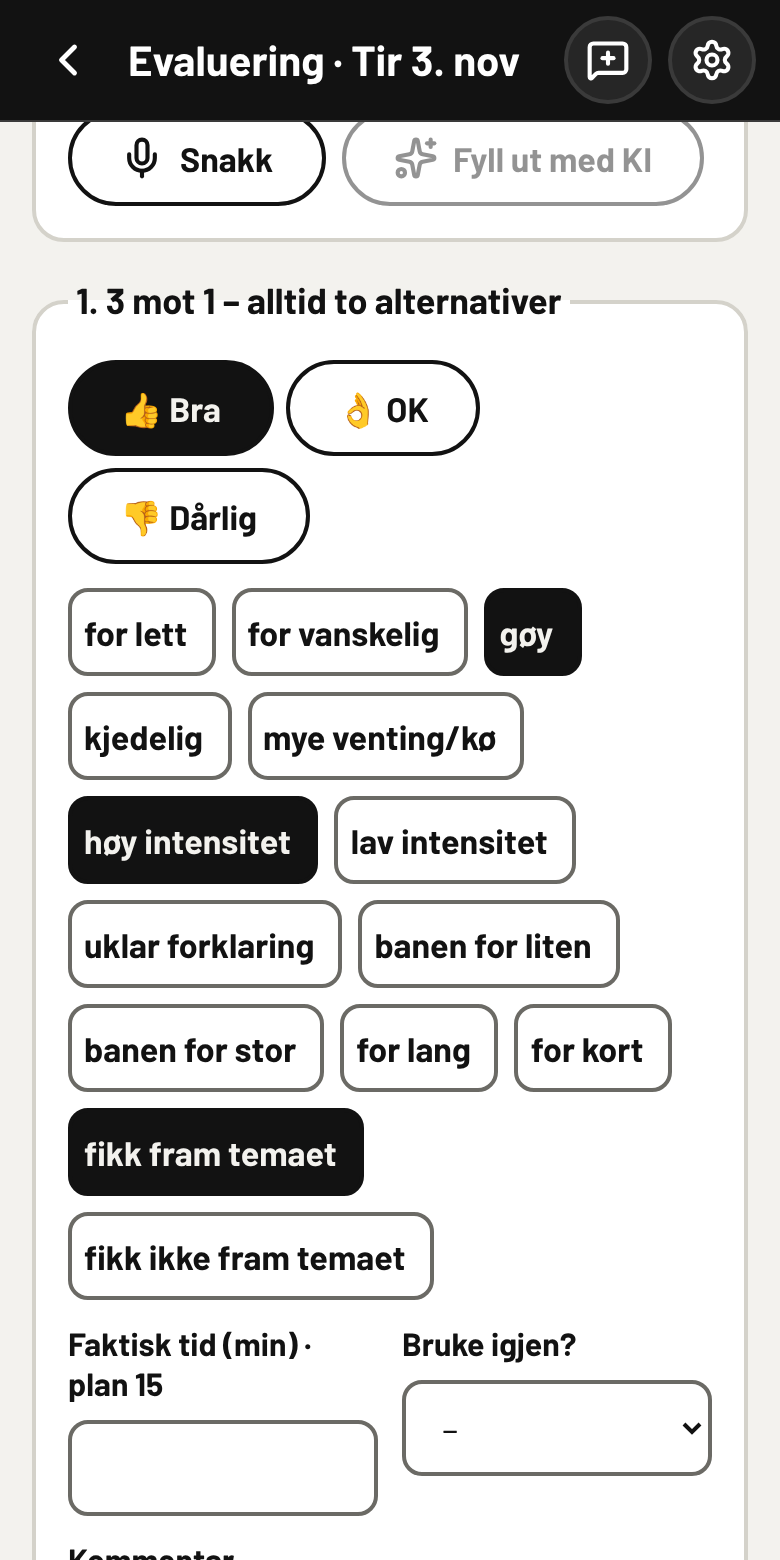
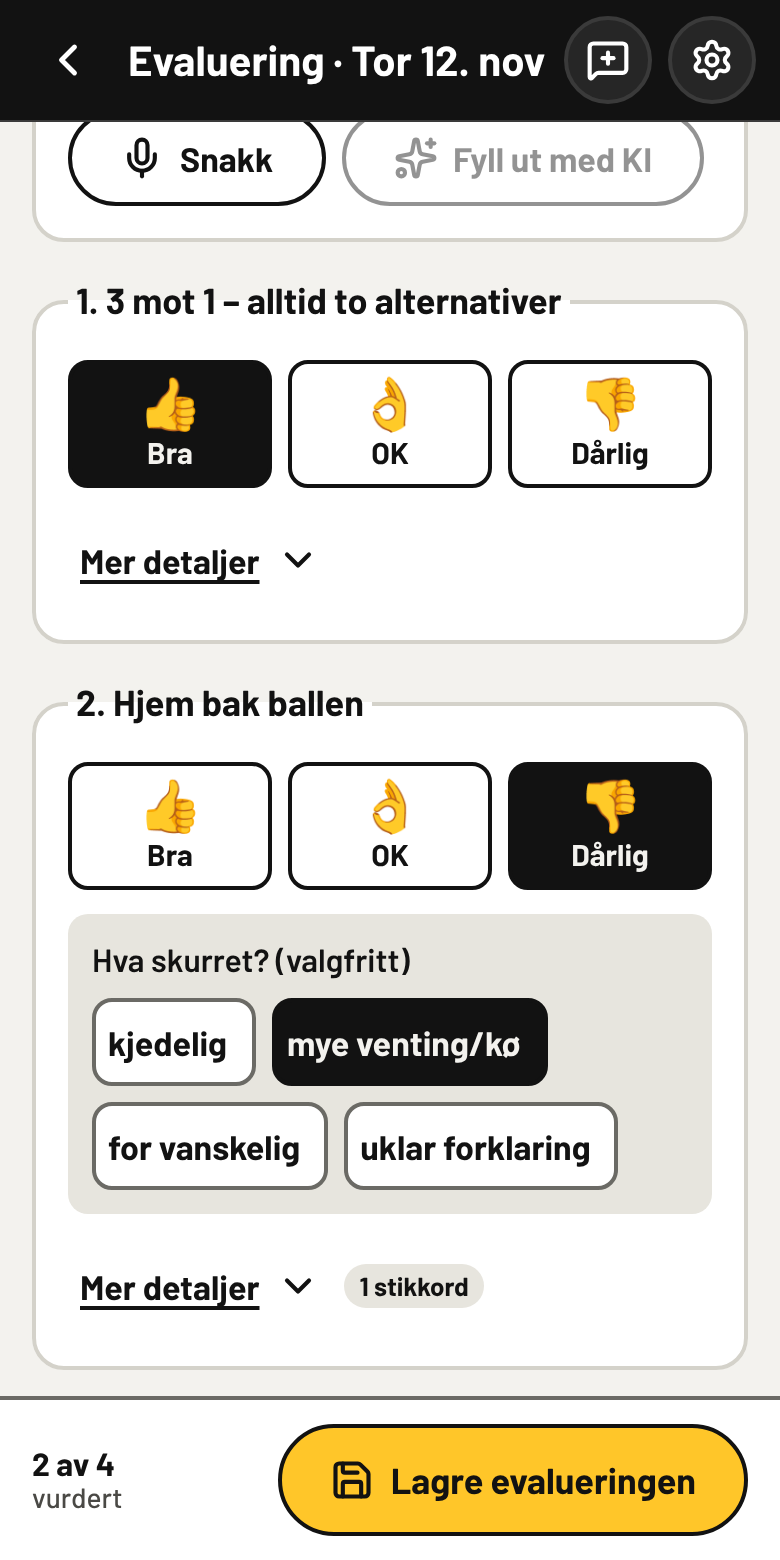
Rask evaluering: ett trykk per øvelse, «Mer detaljer» valgfritt, 👍 teller som «Bruke igjen: Ja» (1.38.0)
Claude-Session: https://claude.ai/code/session_017ZNNficdiEcxkxfot4eDbY

diff --git a/components/plans/FeedbackForm.tsx b/components/plans/FeedbackForm.tsx
@@ -1,13 +1,13 @@
 "use client";
 
-import { Save } from "lucide-react";
+import { ChevronDown, ChevronUp, Save } from "lucide-react";
 import { useRouter } from "next/navigation";
 import { useState, useTransition } from "react";
 import { bankFeedbackAction, feedbackAction } from "@/app/actions/plans";
 import { FeedbackDictation } from "@/components/plans/FeedbackDictation";
 import { Icon } from "@/components/ui/icon";
 import { useToast } from "@/components/ui/toast";
-import type { FeedbackFill } from "@/lib/plans/feedback";
+import { type FeedbackFill, QUICK_TAGS } from "@/lib/plans/feedback";
 
 export interface FeedbackDraft {
   exercise_no: number | null;
@@ -55,6 +55,9 @@ export function FeedbackForm(p: {
   const [rows, setRows] = useState(p.rows);
   const [error, setError] = useState<string | null>(null);
   const upd = (i: number, ch: Partial<FeedbackDraft>) => setRows((r) => r.map((x, j) => (j === i ? { ...x, ...ch } : x)));
+  // Details are optional: open from the start only when there is one row, or when something besides the rating is filled in.
+  const hasDetails = (x: FeedbackDraft) => Boolean(x.actual_minutes || x.actual_players || x.body || x.use_again || x.tags.some((t) => !QUICK_TAGS.includes(t)));
+  const [open, setOpen] = useState<boolean[]>(() => p.rows.map((x) => p.rows.length === 1 || hasDetails(x)));
   const [filled, setFilled] = useState(0);
   // KI's fields go over what is there; keywords are added. From the bank, KI's exercise 1 is the only row.
   const fill = (fills: FeedbackFill[]) => {
@@ -74,6 +77,8 @@ export function FeedbackForm(p: {
         };
       }),
     );
+    // Show what KI filled in.
+    setOpen((o) => o.map((v, j) => v || fills.some((f) => (plan ? f.exercise_no === rows[j]?.exercise_no : f.exercise_no === 1))));
     setFilled((n) => n + 1);
   };
 
@@ -92,6 +97,10 @@ export function FeedbackForm(p: {
       else router.refresh();
     });
 
+  const [said, setSaid] = useState("");
+  const rated = rows.filter((x) => x.rating !== null).length;
+  const quickTags = QUICK_TAGS.filter((k) => k in p.tags);
+
   return (
     <form
       className="nm-form"
@@ -104,7 +113,7 @@ export function FeedbackForm(p: {
     >
       <p style={{ margin: 0 }}>
         {"planId" in p.target
-          ? "Evalueringene hjelper laget og KI å lage bedre økter."
+          ? "Ett trykk per øvelse holder. Vil du si mer, trykk «Mer detaljer». Evalueringene hjelper laget og KI å lage bedre økter."
           : "Vurder øvelsen slik den har fungert for laget. Den teller sammen med evalueringene etter trening. Tøm feltene og lagre for å fjerne din evaluering."}{" "}
         Skriv uten navn på spillere.
       </p>
@@ -116,73 +125,117 @@ export function FeedbackForm(p: {
       ) : null}
       {rows.map((x, i) => {
         const session = "planId" in p.target && x.exercise_no === null;
+        const isOpen = open[i];
+        const tags = session ? (p.sessionTags ?? {}) : p.tags;
+        const chip = (k: string, label: string) => (
+          <button
+            key={k}
+            type="button"
+            className="nm-chip"
+            style={{ cursor: "pointer" }}
+            aria-pressed={x.tags.includes(k)}
+            onClick={() => upd(i, { tags: x.tags.includes(k) ? x.tags.filter((t) => t !== k) : [...x.tags, k] })}
+          >
+            {label}
+          </button>
+        );
         return (
           <fieldset key={i} className="nm-card nm-proposal" style={{ margin: 0 }}>
             <legend style={{ fontWeight: 700, fontSize: "var(--fs-body-lg)", padding: "0 var(--space-1)" }}>{x.title}</legend>
-            <div className="nm-rate" role="group" aria-label="Vurdering">
+            <div className="nm-rate nm-rate--big" role="group" aria-label="Vurdering">
               {Object.entries(p.ratings)
                 .sort((a, b) => Number(b[0]) - Number(a[0]))
-                .map(([k, label]) => (
-                  <button key={k} type="button" className="nm-btn nm-btn--secondary" aria-pressed={x.rating === Number(k)} onClick={() => upd(i, { rating: x.rating === Number(k) ? null : Number(k) })}>
-                    {label}
-                  </button>
-                ))}
+                .map(([k, label]) => {
+                  const [emoji, ...word] = label.split(" ");
+                  return (
+                    <button
+                      key={k}
+                      type="button"
+                      className="nm-btn nm-btn--secondary"
+                      aria-pressed={x.rating === Number(k)}
+                      onClick={() => {
+                        const r = x.rating === Number(k) ? null : Number(k);
+                        upd(i, { rating: r });
+                        setSaid(`${x.title}: ${r === null ? "ingen vurdering" : word.join(" ")}`);
+                      }}
+                    >
+                      <span className="nm-rate__emoji">{emoji}</span> {word.join(" ")}
+                    </button>
+                  );
+                })}
             </div>
-            {Object.keys(session ? (p.sessionTags ?? {}) : p.tags).length ? (
-              <div className="nm-row" style={{ gap: "var(--space-2)" }} role="group" aria-label={session ? "Stikkord for hele økta" : "Stikkord"}>
-                {Object.entries(session ? (p.sessionTags ?? {}) : p.tags).map(([k, label]) => (
-                  <button
-                    key={k}
-                    type="button"
-                    className="nm-chip"
-                    style={{ cursor: "pointer" }}
-                    aria-pressed={x.tags.includes(k)}
-                    onClick={() => upd(i, { tags: x.tags.includes(k) ? x.tags.filter((t) => t !== k) : [...x.tags, k] })}
-                  >
-                    {label}
-                  </button>
-                ))}
+            {!session && !isOpen && x.rating === 1 && quickTags.length ? (
+              <div className="nm-note" style={{ flexDirection: "column", gap: "var(--space-2)" }}>
+                <span style={{ fontWeight: 600 }}>Hva skurret? (valgfritt)</span>
+                <div className="nm-row" style={{ gap: "var(--space-2)" }} role="group" aria-label="Hva skurret?">
+                  {quickTags.map((k) => chip(k, p.tags[k]))}
+                </div>
               </div>
             ) : null}
-            {!session ? (
+            {p.rows.length > 1 ? (
+              <div>
+                <button type="button" className="nm-btn nm-btn--ghost nm-more" aria-expanded={isOpen} onClick={() => setOpen((o) => o.map((v, j) => (j === i ? !v : v)))}>
+                  <span className="nm-more__label">Mer detaljer</span>
+                  <Icon icon={isOpen ? ChevronUp : ChevronDown} />
+                  {!isOpen && x.tags.length ? <span className="nm-more__count">{x.tags.length === 1 ? "1 stikkord" : `${x.tags.length} stikkord`}</span> : null}
+                </button>
+              </div>
+            ) : null}
+            {isOpen ? (
               <>
-                <div className="nm-form-row">
+                {Object.keys(tags).length ? (
+                  <div className="nm-row" style={{ gap: "var(--space-2)" }} role="group" aria-label={session ? "Stikkord for hele økta" : "Stikkord"}>
+                    {Object.entries(tags).map(([k, label]) => chip(k, label))}
+                  </div>
+                ) : null}
+                {!session ? (
+                  <div className="nm-form-row">
+                    <label className="nm-field">
+                      <span className="nm-field__label">Faktisk tid (min){x.planned ? ` · plan ${x.planned}` : ""}</span>
+                      <input className="nm-input" type="number" inputMode="numeric" min={0} max={240} value={x.actual_minutes} onChange={(e) => upd(i, { actual_minutes: e.target.value })} />
+                    </label>
+                    <label className="nm-field">
+                      <span className="nm-field__label">Bruke igjen?</span>
+                      <select className="nm-input" value={x.use_again} onChange={(e) => upd(i, { use_again: e.target.value })}>
+                        <option value="">{x.rating === 3 ? "Ja (fordi 👍)" : "–"}</option>
+                        {Object.entries(p.useAgain).map(([k, label]) => (
+                          <option key={k} value={k}>
+                            {label}
+                          </option>
+                        ))}
+                      </select>
+                    </label>
+                  </div>
+                ) : (
                   <label className="nm-field">
-                    <span className="nm-field__label">Faktisk tid (min){x.planned ? ` · plan ${x.planned}` : ""}</span>
-                    <input className="nm-input" type="number" inputMode="numeric" min={0} max={240} value={x.actual_minutes} onChange={(e) => upd(i, { actual_minutes: e.target.value })} />
+                    <span className="nm-field__label">Antall spillere som kom{"registered" in p.target && p.target.registered !== null ? ` (${p.target.registered} påmeldt)` : ""}</span>
+                    <input className="nm-input" type="number" inputMode="numeric" min={0} max={200} value={x.actual_players} onChange={(e) => upd(i, { actual_players: e.target.value })} />
                   </label>
-                  <label className="nm-field">
-                    <span className="nm-field__label">Bruke igjen?</span>
-                    <select className="nm-input" value={x.use_again} onChange={(e) => upd(i, { use_again: e.target.value })}>
-                      <option value="">–</option>
-                      {Object.entries(p.useAgain).map(([k, label]) => (
-                        <option key={k} value={k}>
-                          {label}
-                        </option>
-                      ))}
-                    </select>
-                  </label>
-                </div>
+                )}
+                <label className="nm-field">
+                  <span className="nm-field__label">Kommentar</span>
+                  <textarea className="nm-input" style={{ minHeight: 64 }} maxLength={300} value={x.body} onChange={(e) => upd(i, { body: e.target.value })} />
+                </label>
               </>
-            ) : (
-              <label className="nm-field">
-                <span className="nm-field__label">Antall spillere som kom{"registered" in p.target && p.target.registered !== null ? ` (${p.target.registered} påmeldt)` : ""}</span>
-                <input className="nm-input" type="number" inputMode="numeric" min={0} max={200} value={x.actual_players} onChange={(e) => upd(i, { actual_players: e.target.value })} />
-              </label>
-            )}
-            <label className="nm-field">
-              <span className="nm-field__label">Kommentar</span>
-              <textarea className="nm-input" style={{ minHeight: 64 }} maxLength={300} value={x.body} onChange={(e) => upd(i, { body: e.target.value })} />
-            </label>
+            ) : null}
           </fieldset>
         );
       })}
+      <div aria-live="polite" className="nm-sr-only">
+        {said}
+      </div>
       {error ? (
         <div className="nm-alert" role="alert">
           {error}
         </div>
       ) : null}
-      <div>
+      <div className="nm-savebar">
+        {rows.length > 1 ? (
+          <span className="nm-savebar__count">
+            {rated} av {rows.length}
+            <small>vurdert</small>
+          </span>
+        ) : null}
         <button type="submit" className="nm-btn nm-btn--primary nm-btn--lg" disabled={pending}>
           <Icon icon={Save} />
           Lagre evalueringen

diff --git a/public/bruksanvisning/index.html b/public/bruksanvisning/index.html
@@ -137,7 +137,7 @@
     <img src="bilder/03-lag.png" alt="Lagtavla">
     <img src="bilder/08-evaluering.png" alt="Evaluering av en øvelse">
   </div>
-  <p class="meta"><b>lagorganisering.vercel.app</b> · Gjelder appversjon <b id="VERSJON">1.37.0</b><br>
+  <p class="meta"><b>lagorganisering.vercel.app</b> · Gjelder appversjon <b id="VERSJON">1.38.0</b><br>
   Appen er under utvikling, og bruksanvisningen oppdateres sammen med den. Den nyeste ligger alltid i appen under Innstillinger → Bruksanvisning. Skjermbildene er fra demoversjonen, med oppdiktede navn.</p>
 </div>
 
@@ -253,20 +253,27 @@
   <h2><span class="num">4</span>Etter treningen: evaluer økta</h2>
   <div class="box key">
     <h3>Det viktigste i hele appen</h3>
-    <p>Øvelsesbanken og KI lærer <b>bare</b> av evalueringene deres. Uten evalueringer vet ikke appen hvilke øvelser som fungerer for vår aldersgruppe, og KI fortsetter å foreslå de samme øvelsene – også de som ikke fungerte. Det tar to–tre minutter, og det er de minuttene som gjør neste opplegg bedre.</p>
+    <p>Øvelsesbanken og KI lærer <b>bare</b> av evalueringene deres. Uten evalueringer vet ikke appen hvilke øvelser som fungerer for vår aldersgruppe, og KI fortsetter å foreslå de samme øvelsene – også de som ikke fungerte. Ett trykk per øvelse tar under ett minutt, og det er det minuttet som gjør neste opplegg bedre.</p>
   </div>
 
-  <figure><img src="bilder/08-evaluering.png" alt="Evaluering av en øvelse"><figcaption>Evaluering av én øvelse: tommel, stikkord, faktisk tid og «Bruke igjen?».</figcaption></figure>
+  <figure><img src="bilder/08-evaluering.png" alt="Evaluering av en øvelse"><figcaption>Rask evaluering: ett trykk per øvelse. Ved 👎 kan du si hva som skurret.</figcaption></figure>
   <h3>Slik evaluerer du</h3>
-  <p>Trykk <span class="ui">Evaluer</span> i påminnelsen øverst på forsiden, eller <span class="ui">Evaluer økta</span> på arrangementet. For <b>hver øvelse</b>:</p>
+  <p>Trykk <span class="ui">Evaluer</span> i påminnelsen øverst på forsiden, eller <span class="ui">Evaluer økta</span> på arrangementet. Har du dårlig tid, holder det med <b>ett trykk per øvelse</b>:</p>
   <ol class="steps">
-    <li><b>👍 Bra, 👌 OK eller 👎 Dårlig.</b></li>
+    <li><b>👍 Bra, 👌 OK eller 👎 Dårlig</b> for hver øvelse og for <b>Hele økta</b>.</li>
+    <li>Ved <b>👎</b>: trykk gjerne hva som skurret – <span class="tag">kjedelig</span> <span class="tag">mye venting/kø</span> <span class="tag">for vanskelig</span> <span class="tag">uklar forklaring</span>. Det er valgfritt.</li>
+    <li>Trykk <span class="ui">Lagre evalueringen</span> nederst. Den viser hvor mange du har vurdert, og du kan lagre det du rekker.</li>
+  </ol>
+  <p>👍 teller som <b>«Bruke igjen: Ja»</b>, hvis du ikke velger noe annet.</p>
+  <h3>Mer detaljer (valgfritt)</h3>
+  <p>Har du mer å si, trykker du <span class="ui">Mer detaljer</span> under øvelsen:</p>
+  <ol class="steps">
     <li><b>Stikkord</b> – trykk alle som passer: <span class="tag">for lett</span> <span class="tag">mye venting/kø</span> <span class="tag">uklar forklaring</span> <span class="tag">banen for liten</span> <span class="tag">gøy</span> <span class="tag">fikk fram temaet</span> …</li>
     <li><b>Faktisk tid</b> i minutter, hvis den var annerledes enn planen.</li>
     <li><b>Bruke igjen?</b> Ja, Med endringer eller Nei.</li>
     <li><b>Kommentar</b>: hva bør endres? Konkret og uten navn.</li>
   </ol>
-  <p>Til slutt <b>Hele økta</b>: tommel, stikkord som <span class="tag">god progresjon</span> <span class="tag">mye tid til organisering</span> <span class="tag">for få trenere</span>, og <b>hvor mange spillere som kom</b>. Trykk <span class="ui">Lagre evalueringen</span>.</p>
+  <p>Under <span class="ui">Mer detaljer</span> for <b>Hele økta</b> finner du stikkord som <span class="tag">god progresjon</span> <span class="tag">mye tid til organisering</span> <span class="tag">for få trenere</span>, og <b>hvor mange spillere som kom</b>. Jo mer dere skriver, jo mer lærer appen, men en rask evaluering er mye bedre enn ingen.</p>
   <div class="clear"></div>
 
   <div class="box tip">
@@ -295,7 +302,7 @@
 
   <table>
     <tr><th style="width: 38%">Det dere gjør</th><th>Det skjer i banken</th></tr>
-    <tr><td>👍 + «Bruke igjen: Ja» på en ny øvelse</td><td>Øvelsen går fra <b>kandidat</b> til <b>aktiv</b>. Uten det blir den liggende som kandidat.</td></tr>
+    <tr><td>👍 på en ny øvelse (uten at «Bruke igjen?» er satt til Med endringer eller Nei)</td><td>Øvelsen går fra <b>kandidat</b> til <b>aktiv</b>. Uten det blir den liggende som kandidat.</td></tr>
     <tr><td>Samme stikkord fra flere trenere (f.eks. «mye venting/kø»)</td><td>KI lager et <b>forslag til en bedre versjon</b> av øvelsen, som venter i Forbedringer.</td></tr>
     <tr><td>👎 og «Bruke igjen: Nei» over tid</td><td>KI slutter å foreslå øvelsen for denne aldersgruppa, og den kan bli foreslått arkivert.</td></tr>
     <tr><td>En øvelse er bra for én alder og dårlig for en annen</td><td>Appen foreslår en <b>variant</b> tilpasset aldersgruppa.</td></tr>
@@ -335,7 +342,7 @@
   <p>Under <span class="ui">Trening → Øvelser</span> ligger alle øvelsene, sortert etter kategori. Hver øvelse har en status:</p>
   <ul>
     <li><b>Aktiv</b> – brukes av KI og i opplegg.</li>
-    <li><b>Kandidat</b> – ny øvelse som venter på en 👍 og «Bruke igjen: Ja».</li>
+    <li><b>Kandidat</b> – ny øvelse som venter på en 👍.</li>
     <li><b>Arkivert</b> – brukes ikke lenger.</li>
   </ul>
   <h3>Se, evaluere og justere</h3>

diff --git a/app/globals.css b/app/globals.css
@@ -404,6 +404,17 @@ select.nm-input { appearance: auto; }
 .nm-pick > div { flex: 1; min-width: 0; }
 .nm-pick--new { outline: var(--border-2) solid var(--border-focus); outline-offset: calc(var(--border-2) * -1); border-radius: var(--radius-sm); scroll-margin-top: calc(var(--space-7) * 2); }
 .nm-rate { display: flex; gap: 6px; flex-wrap: wrap; }
+/* Quick evaluation: three big buttons side by side, emoji over the word */
+.nm-rate--big { display: grid; grid-template-columns: repeat(3, 1fr); gap: var(--space-2); }
+.nm-rate--big > .nm-btn { flex-direction: column; gap: 2px; min-height: var(--row-min); padding: 0 var(--space-1); border-radius: var(--radius-md); font-size: 15px; }
+.nm-rate__emoji { font-size: 26px; line-height: 1; }
+.nm-more { align-self: flex-start; padding: 0 var(--space-1); }
+.nm-more__label { text-decoration: underline; text-underline-offset: 3px; text-decoration-thickness: 2px; }
+.nm-more__count { display: inline-block; margin-left: var(--space-1); padding: 1px var(--space-2); border-radius: var(--radius-pill); background: var(--surface-muted); font-size: 13px; text-decoration: none; }
+/* Save stays in reach of the thumb at the bottom of the screen */
+.nm-savebar { position: sticky; bottom: calc(var(--space-4) * -1); z-index: 2; display: flex; align-items: center; justify-content: flex-end; gap: var(--space-3); margin: 0 calc(var(--space-4) * -1) calc(var(--space-4) * -1); padding: var(--space-3) var(--space-4); padding-bottom: calc(var(--space-3) + env(safe-area-inset-bottom)); background: var(--surface-raised); border-top: var(--border-2) solid var(--line-strong); }
+.nm-savebar__count { flex: 1; white-space: nowrap; font-weight: 700; font-size: 16px; line-height: 1.2; }
+.nm-savebar__count small { display: block; font-weight: 500; font-size: 14px; color: var(--ink-muted); }
 .nm-rate button[aria-pressed="true"], .nm-chip[aria-pressed="true"] { background: var(--ink); color: var(--surface); border-color: var(--ink); }
 .nm-table { width: 100%; border-collapse: collapse; font-size: 15px; }
 .nm-table th, .nm-table td { text-align: left; padding: 6px 8px; border-bottom: var(--border-1) solid var(--line); vertical-align: top; }

diff --git a/lib/plans/feedback.ts b/lib/plans/feedback.ts
@@ -28,6 +28,9 @@ export const FEEDBACK_TAGS: Record<string, string> = {
   tema_nei: "fikk ikke fram temaet",
 };
 
+/** «Hva skurret?»: the keywords offered at once when an exercise gets 👎, before «Mer detaljer». */
+export const QUICK_TAGS = ["kjedelig", "ko", "for_vanskelig", "uklar"];
+
 /**
  * Keywords for the session as a whole: how the exercises worked together, not
  * each one. Kept apart from FEEDBACK_TAGS, so they never count for an exercise.
@@ -99,8 +102,10 @@ function checkRow(r: RawFeedback, what: string, session: boolean, names: string[
   if (isSensitive(body)) throw new FeedbackError(`${what}: teksten skal ikke inneholde helseopplysninger eller andre sensitive opplysninger.`);
   const np = namesProblem(body, names, "Skriv uten navn, evalueringene kan oppsummeres av KI");
   if (np) throw new FeedbackError(`${what}: ${np}`);
-  const useAgain = session ? "" : txt(r.use_again);
+  let useAgain = session ? "" : txt(r.use_again);
   if (useAgain && !(useAgain in USE_AGAIN)) throw new FeedbackError(`${what}: ugyldig svar på «Bruke igjen?».`);
+  // 👍 counts as «Bruke igjen: Ja» unless the trainer answered otherwise (the trainers decided 2026-11-13).
+  if (!session && rating === 3 && !useAgain) useAgain = "yes";
   const minutes = session ? null : intIn(r.actual_minutes, `${what}: faktisk tid`, 0, 240);
   const players = session ? intIn(r.actual_players, "Antall spillere", 0, 200) : null;
   const filled = rating !== null || tags.length || body || useAgain || (session && players !== null);

diff --git a/app/g/[groupId]/[sub]/trening/ovelser/page.tsx b/app/g/[groupId]/[sub]/trening/ovelser/page.tsx
@@ -93,7 +93,7 @@ export default async function ExercisesPage(props: PageProps<"/g/[groupId]/[sub]
       {bank.length ? (
         <>
           <p style={{ marginTop: 0 }}>
-            Nye øvelser fra godkjente opplegg kommer inn som <em>kandidater</em>, og blir aktive når en trener gir 👍 og «Bruke igjen: Ja». Trykk på navnet for å se øvelsen, på skjemaet for å evaluere den (også uten at den er brukt på en trening), eller på {ctx.user.rights.ai ? "stjernene for å justere den med KI" : "blyanten for å endre den"}.
+            Nye øvelser fra godkjente opplegg kommer inn som <em>kandidater</em>, og blir aktive når en trener gir 👍 (med mindre «Bruke igjen?» er satt til noe annet enn Ja). Trykk på navnet for å se øvelsen, på skjemaet for å evaluere den (også uten at den er brukt på en trening), eller på {ctx.user.rights.ai ? "stjernene for å justere den med KI" : "blyanten for å endre den"}.
           </p>
           {buttons}
           <ExerciseBank items={items} base={base} ai={ai} fresh={fresh} statuses={EXERCISE_STATUSES} options={options} />

diff --git a/tests/unit/feedback.test.ts b/tests/unit/feedback.test.ts
@@ -32,7 +32,22 @@ describe("evaluation", () => {
     expect(tagLabel("ko")).toBe("mye venting/kø");
   });
 
-    it("from the bank: the same checks for one exercise, empty means remove", () => {
+  it("👍 counts as «Bruke igjen: Ja» unless the trainer answered otherwise", () => {
+    const rows = validateFeedback(
+      [
+        { exercise_no: 1, rating: 3 },
+        { exercise_no: 2, rating: 3, use_again: "changes" },
+        { exercise_no: 3, rating: 2 },
+        { exercise_no: null, rating: 3 },
+      ],
+      plan,
+      [],
+    );
+    expect(rows.map((r) => r.use_again)).toEqual(["yes", "changes", "", ""]);
+    expect(validateBankFeedback({ exercise_no: null, rating: 3 }, "rondo", [])?.use_again).toBe("yes");
+  });
+
+  it("from the bank: the same checks for one exercise, empty means remove", () => {
     expect(validateBankFeedback({ exercise_no: null, rating: 1, tags: ["ko", "ko"], actual_minutes: "20", actual_players: "9", use_again: "no" }, "rondo", [])).toEqual({
       exercise_no: null,
       exercise_code: "rondo",

diff --git a/tests/e2e/evaluation-reminder.spec.ts b/tests/e2e/evaluation-reminder.spec.ts
@@ -13,6 +13,9 @@ test("a training with a plan that I have not evaluated is shown, and goes away w
 
   const session = page.locator("fieldset", { hasText: "Hele økta" });
   await session.getByRole("button", { name: "👍 Bra" }).click();
+  // Quick by default: details are behind «Mer detaljer».
+  await expect(session.getByRole("group", { name: "Stikkord for hele økta" })).toHaveCount(0);
+  await session.getByRole("button", { name: "Mer detaljer" }).click();
   // The session has its own keywords.
   const flow = session.getByRole("group", { name: "Stikkord for hele økta" }).getByRole("button", { name: "god flyt mellom øvelsene" });
   await flow.click();

diff --git a/CHANGELOG.md b/CHANGELOG.md
@@ -8,6 +8,17 @@ Hver PR skriver endringene sine under «Ikke utgitt». Ved en ny versjon flyttes
 
 ## [Ikke utgitt]
 
+## [1.38.0] – 2026-11-13
+
+Evalueringen etter trening går raskere, som trenerne ønsket på trenermøtet.
+
+### Endret
+
+- Evalueringen viser nå bare 👍 Bra, 👌 OK og 👎 Dårlig for hver øvelse og for hele økta. Ett trykk per øvelse holder. Stikkord, faktisk tid, «Bruke igjen?» og kommentar finner du under «Mer detaljer».
+- Trykker du 👎, kan du med ett trykk til si hva som skurret: kjedelig, mye venting/kø, for vanskelig eller uklar forklaring.
+- 👍 teller nå som «Bruke igjen: Ja», hvis du ikke har valgt noe annet. En kandidat i banken blir da aktiv med én 👍.
+- «Lagre evalueringen» ligger alltid nederst på skjermen og viser hvor mange du har vurdert. Du kan lagre det du rekker.
+
 ## [1.37.0] – 2026-11-13
 
 Nivå har fått en finere skala, som trenergruppa ble enige om.
